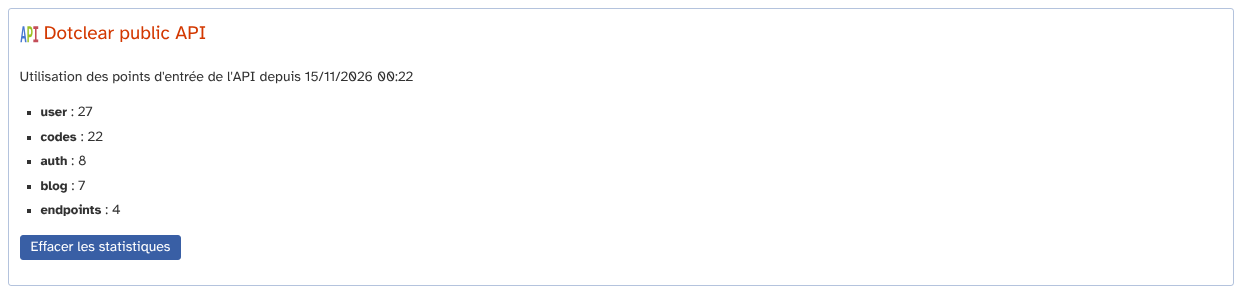
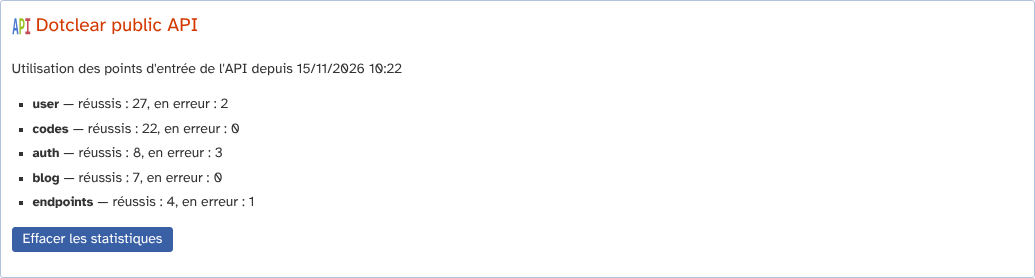
[docs] Update dashboard statistics in user guide

diff --git a/docs/fr/utilisation.md b/docs/fr/utilisation.md
@@ -180,11 +180,16 @@ Le plugin peut compter les appels de chaque point d'entrée et les montrer sur v
 
 ![Option des statistiques dans les préférences](img/preferences-tableau-de-bord.png)
 
-Un cadre apparaît ensuite sur la page d'accueil de l'administration. Il liste les points d'entrée appelés depuis la dernière remise à zéro.
+Un cadre apparaît ensuite sur la page d'accueil de l'administration. Il liste les points d'entrée appelés depuis la dernière remise à zéro, les plus utilisés en premier. Pour chacun, il donne deux nombres :
+
+* _réussis_ : les appels qui ont reçu une réponse normale ;
+* _en erreur_ : les appels refusés ou en échec, par exemple sans autorisation, avec un paramètre manquant ou au-delà de la limite d'appels.
+
+Les appels vers un point d'entrée qui n'existe pas ne sont pas comptés. Les statistiques sont propres à chaque blog.
 
 ![Statistiques de l'API sur le tableau de bord](img/tableau-de-bord-statistiques.png)
 
-Le bouton _Effacer les statistiques_ remet les compteurs à zéro.
+Le bouton _Effacer les statistiques_ remet les compteurs à zéro pour ce blog.
 
 ## Vider le cache
 
